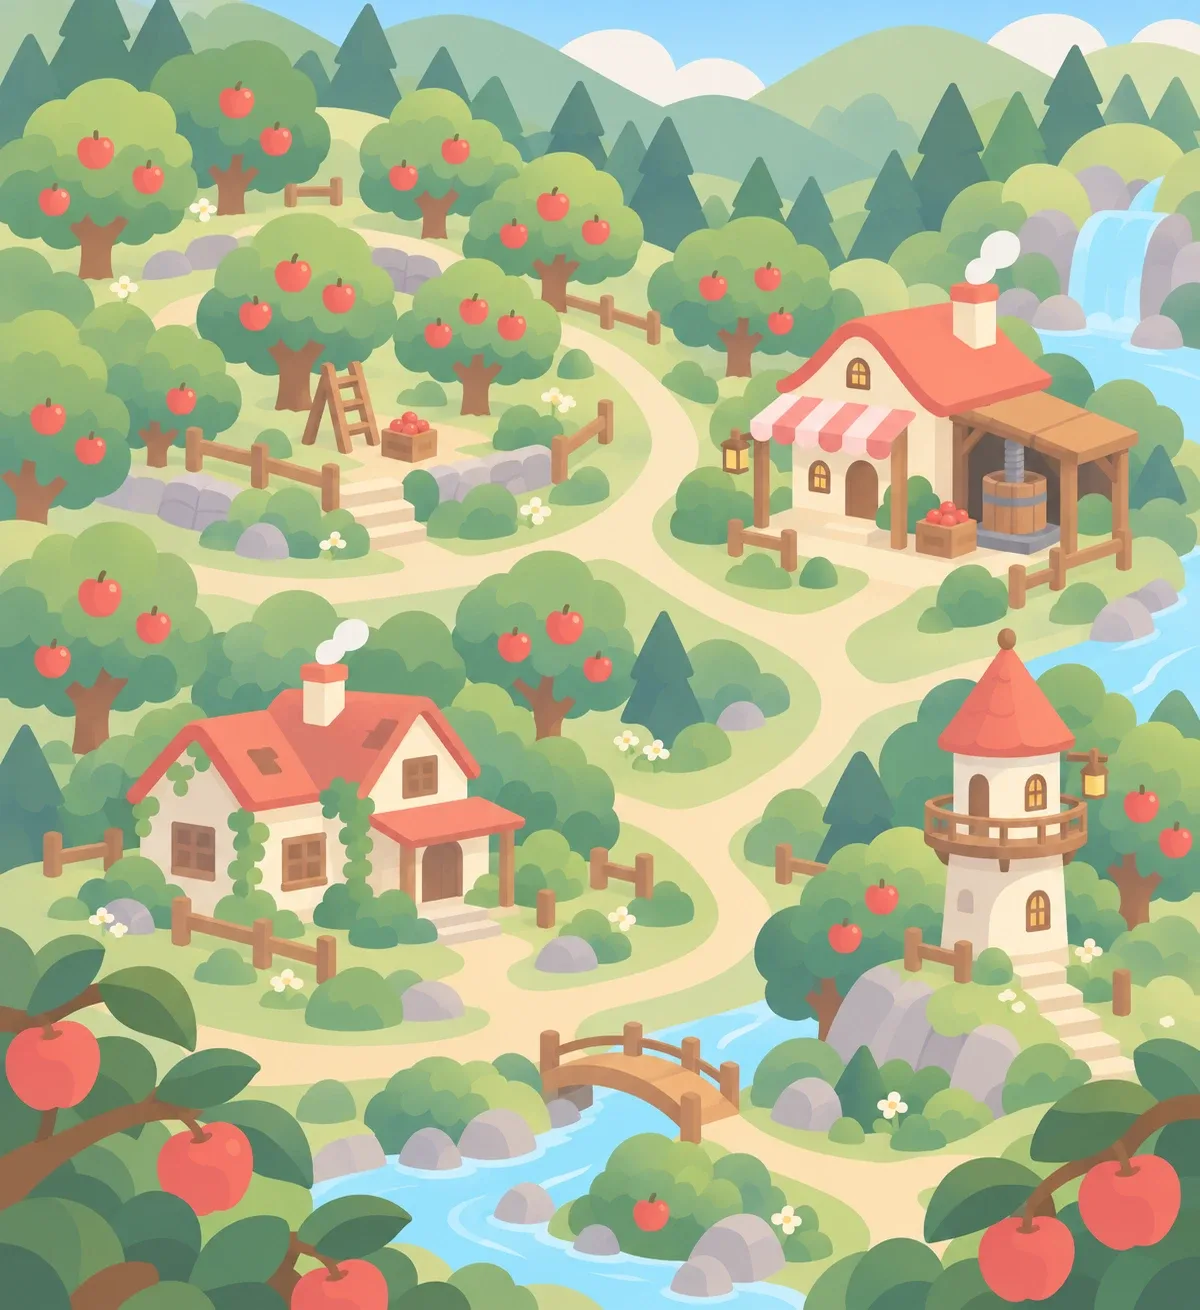
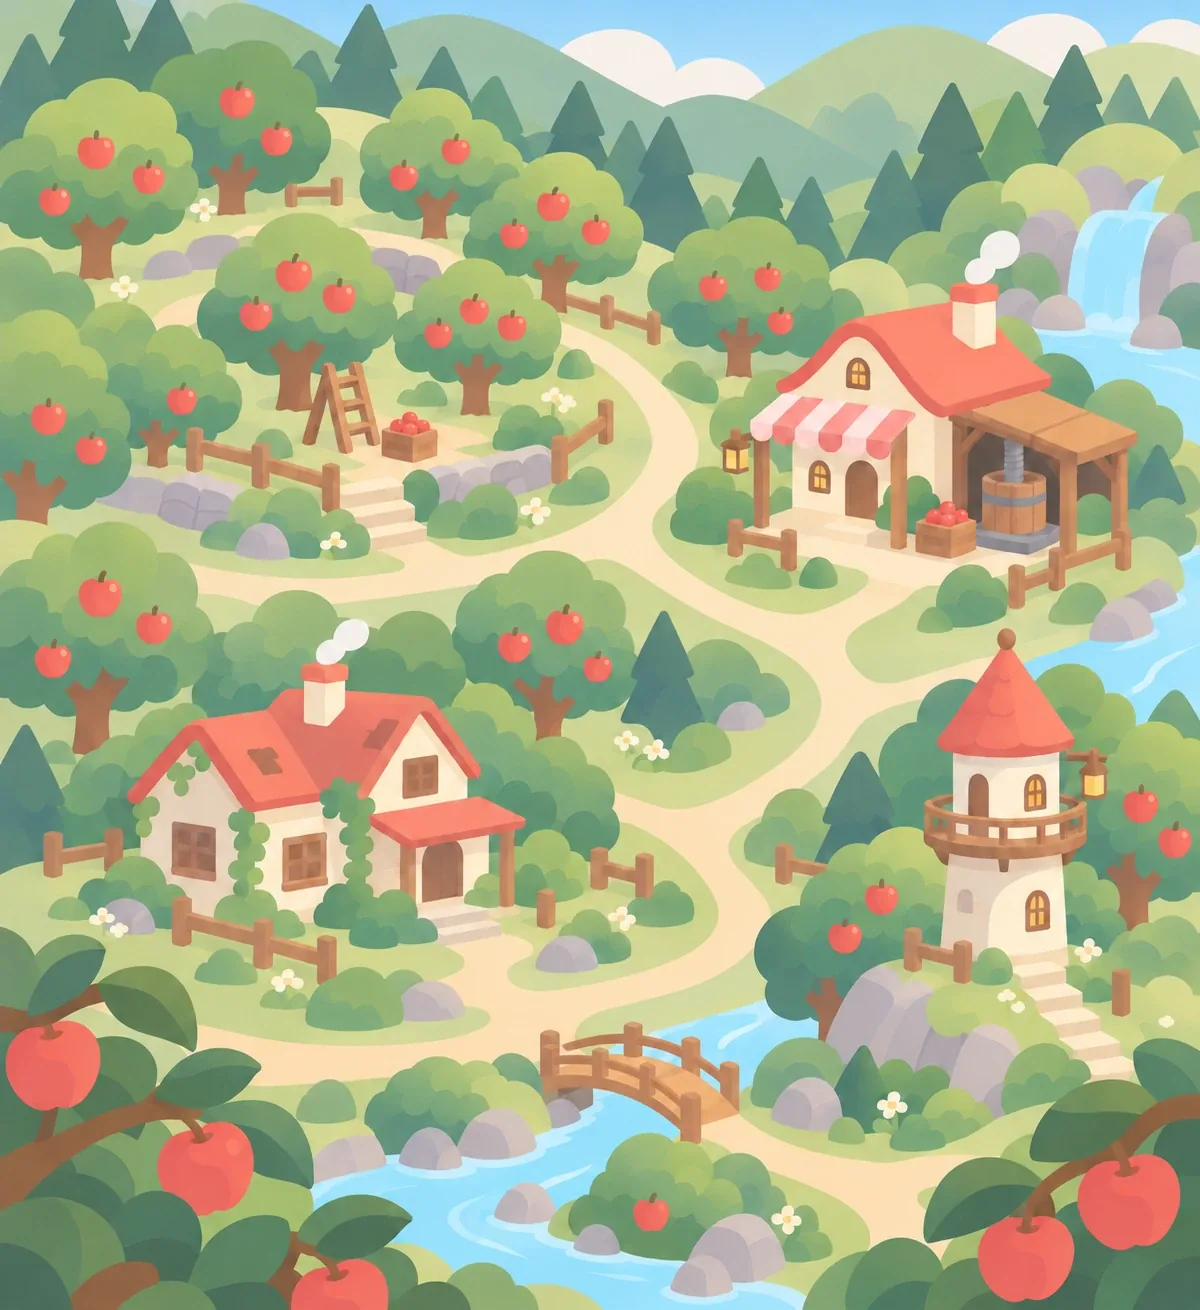
일곱 굴뚝 · 붉은 사과밭 지도를 새로 받은 그림으로 교체
Claude-Session: https://claude.ai/code/session_01RZe6NgtUbyn7nAqzQfcGca

Changed region(s): [[0.4625, 0.7939, 0.6167, 0.855]]

diff --git a/index.html b/index.html
@@ -13,11 +13,11 @@
 <link rel="preconnect" href="https://fonts.googleapis.com">
 <link rel="preconnect" href="https://fonts.gstatic.com" crossorigin>
 <link href="https://fonts.googleapis.com/css2?family=Noto+Sans+KR:wght@400;500;700;800;900&display=swap" rel="stylesheet">
-<link rel="stylesheet" href="style.css?v=20261019k">
+<link rel="stylesheet" href="style.css?v=20261019l">
 <!-- ⚠ UI 색상은 «첫 페인트 전»에 정해져야 한다 — 문서 끝에 두면 기본 색으로
      한 번 그려진 뒤에 얹혀서 다크를 고른 사람에게 흰 화면이 한 번 친다.
      그래서 여기만 `defer` 없이 `<head>` 에서 읽는다 (theme.js 주석 참고) -->
-<script src="theme.js?v=20261019k"></script>
+<script src="theme.js?v=20261019l"></script>
 </head>
 <body>
 
@@ -54,7 +54,7 @@
 <div id="splash" class="splash">
   <div class="splash-inner">
     <!-- 로고 이미지(logo.png)가 있으면 그것을 사용, 없으면 아래 SVG로 자동 폴백 -->
-    <img id="splashLogoImg" class="splash-logo" src="logo.png?v=20261019k" alt="Dream Syndicate Studio"
+    <img id="splashLogoImg" class="splash-logo" src="logo.png?v=20261019l" alt="Dream Syndicate Studio"
          onerror="this.remove(); var f=document.getElementById('splashLogoSvg'); if(f) f.style.display='block';">
     <svg id="splashLogoSvg" class="splash-logo" style="display:none" viewBox="0 0 240 240" xmlns="http://www.w3.org/2000/svg" role="img" aria-label="Dream Syndicate Studio">
       <defs>
@@ -1289,38 +1289,38 @@
 <!-- ── 토스트 ── -->
 <div id="toast" class="toast"></div>
 
-<script src="i18n.js?v=20261019k"></script>
-<script src="intro.js?v=20261019k"></script>
-<script src="data.js?v=20261019k"></script>
+<script src="i18n.js?v=20261019l"></script>
+<script src="intro.js?v=20261019l"></script>
+<script src="data.js?v=20261019l"></script>
 <!-- ⚠⚠ **`roomart.js` 는 «모듈보다 먼저»** 와야 한다. 방과 소품의 그림이 여기
      한 곳에 있고, 3D 방(room3d.js · ES 모듈)이 `window.RoomArt` 로 그것을 읽는다 —
      SVG 폴백(avatar.js)도 같은 캔버스를 data URL 로 쓴다.
      (평범한 스크립트가 모듈보다 먼저 도는 것이 규칙이지만, 순서로도 적어 둔다) -->
-<script src="roomart.js?v=20261019k"></script>
-<script src="crouchart.js?v=20261019k"></script>
-<script src="earart.js?v=20261019k"></script>
-<script src="avatar.js?v=20261019k"></script>
-<script src="village.js?v=20261019k"></script>
-<script src="portrait.js?v=20261019k"></script>
+<script src="roomart.js?v=20261019l"></script>
+<script src="crouchart.js?v=20261019l"></script>
+<script src="earart.js?v=20261019l"></script>
+<script src="avatar.js?v=20261019l"></script>
+<script src="village.js?v=20261019l"></script>
+<script src="portrait.js?v=20261019l"></script>
 <!-- 애교 모션의 리그. **`creature.js` 가 그릴 때 읽으므로 그보다 먼저** 둔다
      (없어도 게임은 돈다 — 그때는 크리처가 가만히 서 있다) -->
-<script src="petidle.js?v=20261019k"></script>
-<script src="creature.js?v=20261019k"></script>
-<script src="cauldron.js?v=20261019k"></script>
-<script src="pumpkin.js?v=20261019k"></script>
-<script src="walnut.js?v=20261019k"></script>
-<script src="rock.js?v=20261019k"></script>
-<script src="fish.js?v=20261019k"></script>
-<script src="sparrow.js?v=20261019k"></script>
-<script src="pinwheel.js?v=20261019k"></script>
-<script src="driller.js?v=20261019k"></script>
-<script src="sfx.js?v=20261019k"></script>
-<script src="sync.js?v=20261019k"></script>
+<script src="petidle.js?v=20261019l"></script>
+<script src="creature.js?v=20261019l"></script>
+<script src="cauldron.js?v=20261019l"></script>
+<script src="pumpkin.js?v=20261019l"></script>
+<script src="walnut.js?v=20261019l"></script>
+<script src="rock.js?v=20261019l"></script>
+<script src="fish.js?v=20261019l"></script>
+<script src="sparrow.js?v=20261019l"></script>
+<script src="pinwheel.js?v=20261019l"></script>
+<script src="driller.js?v=20261019l"></script>
+<script src="sfx.js?v=20261019l"></script>
+<script src="sync.js?v=20261019l"></script>
 <!-- 방을 3D 로 그리는 모듈. **모듈이라 미뤄져 실행된다** — 그래서 게임은
      이것이 «없어도» 돈다 (SVG 방 그대로). 준비되면 room3d-ready 로 알린다 -->
-<script type="module" src="room3d.js?v=20261019k"></script>
-<script src="game.js?v=20261019k"></script>
-<script src="tutorial.js?v=20261019k"></script>
-<script src="a11y.js?v=20261019k"></script>
+<script type="module" src="room3d.js?v=20261019l"></script>
+<script src="game.js?v=20261019l"></script>
+<script src="tutorial.js?v=20261019l"></script>
+<script src="a11y.js?v=20261019l"></script>
 </body>
 </html>
